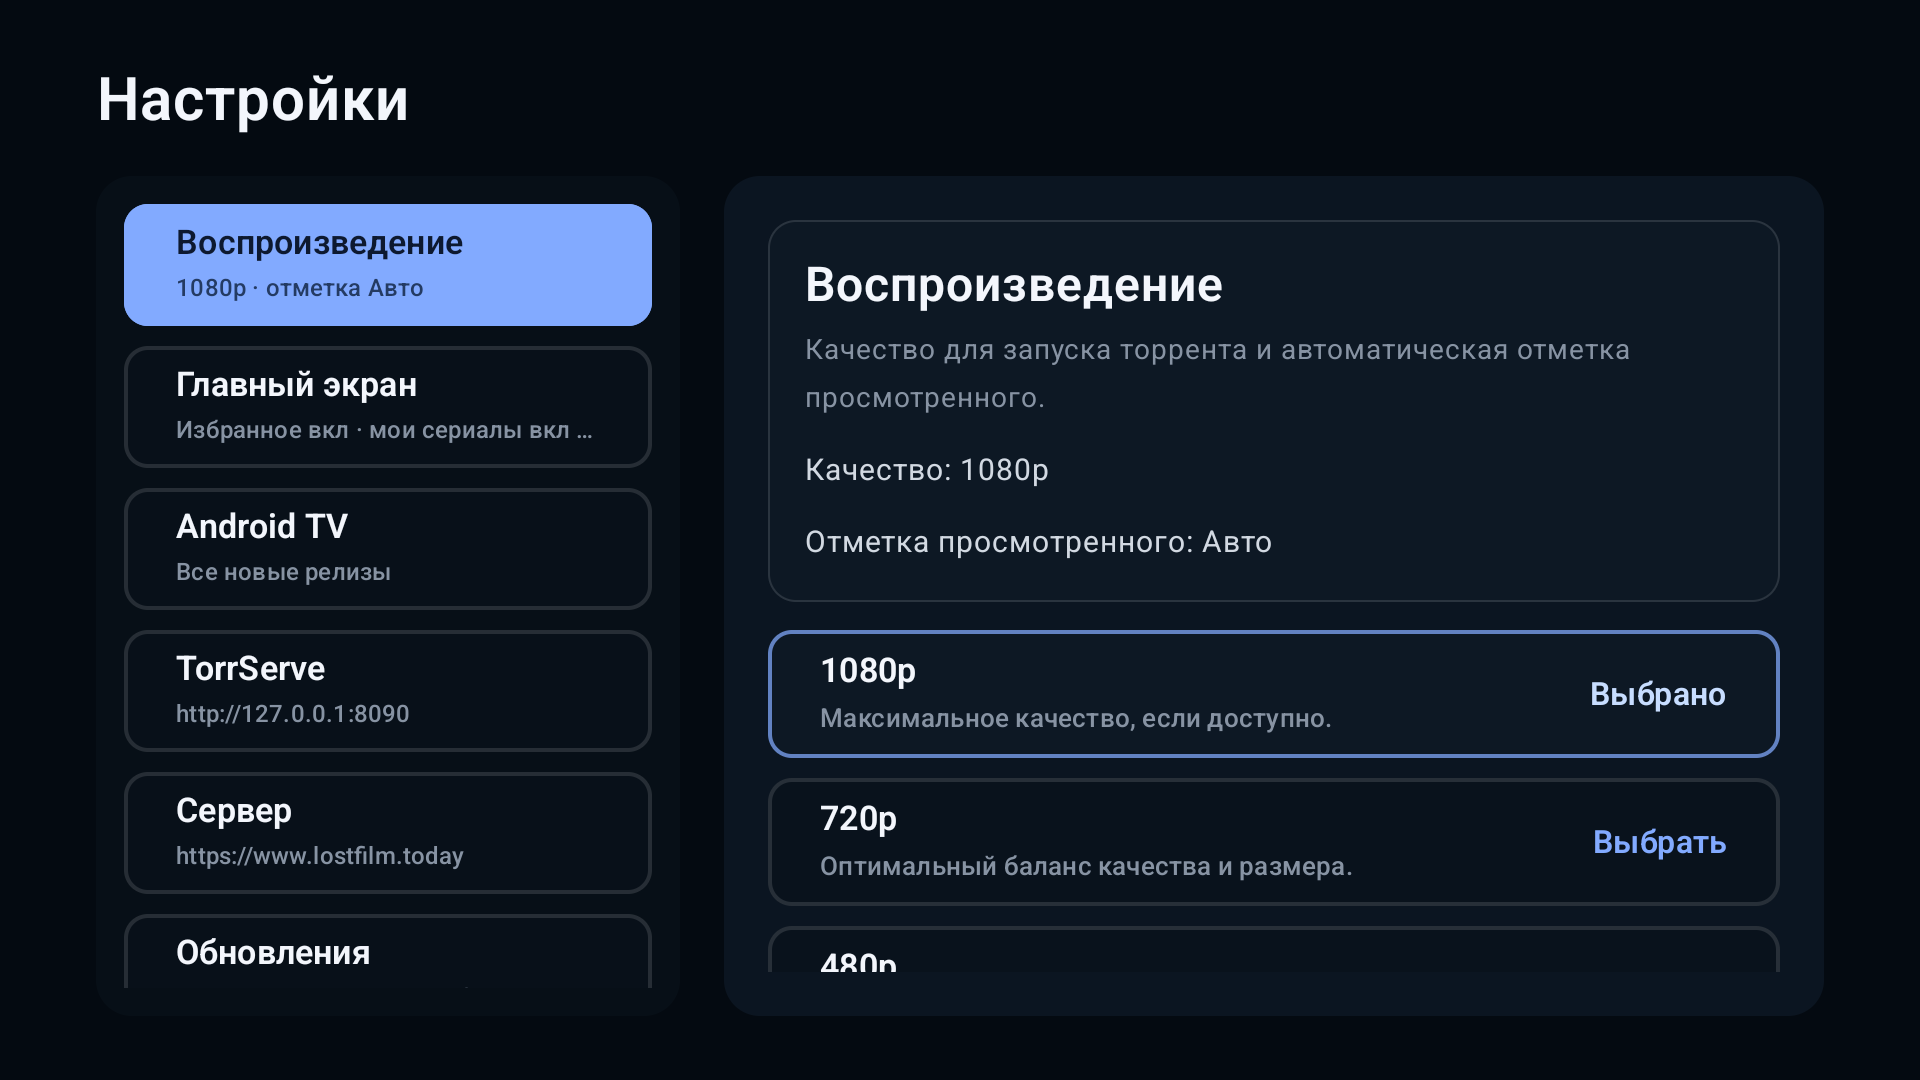
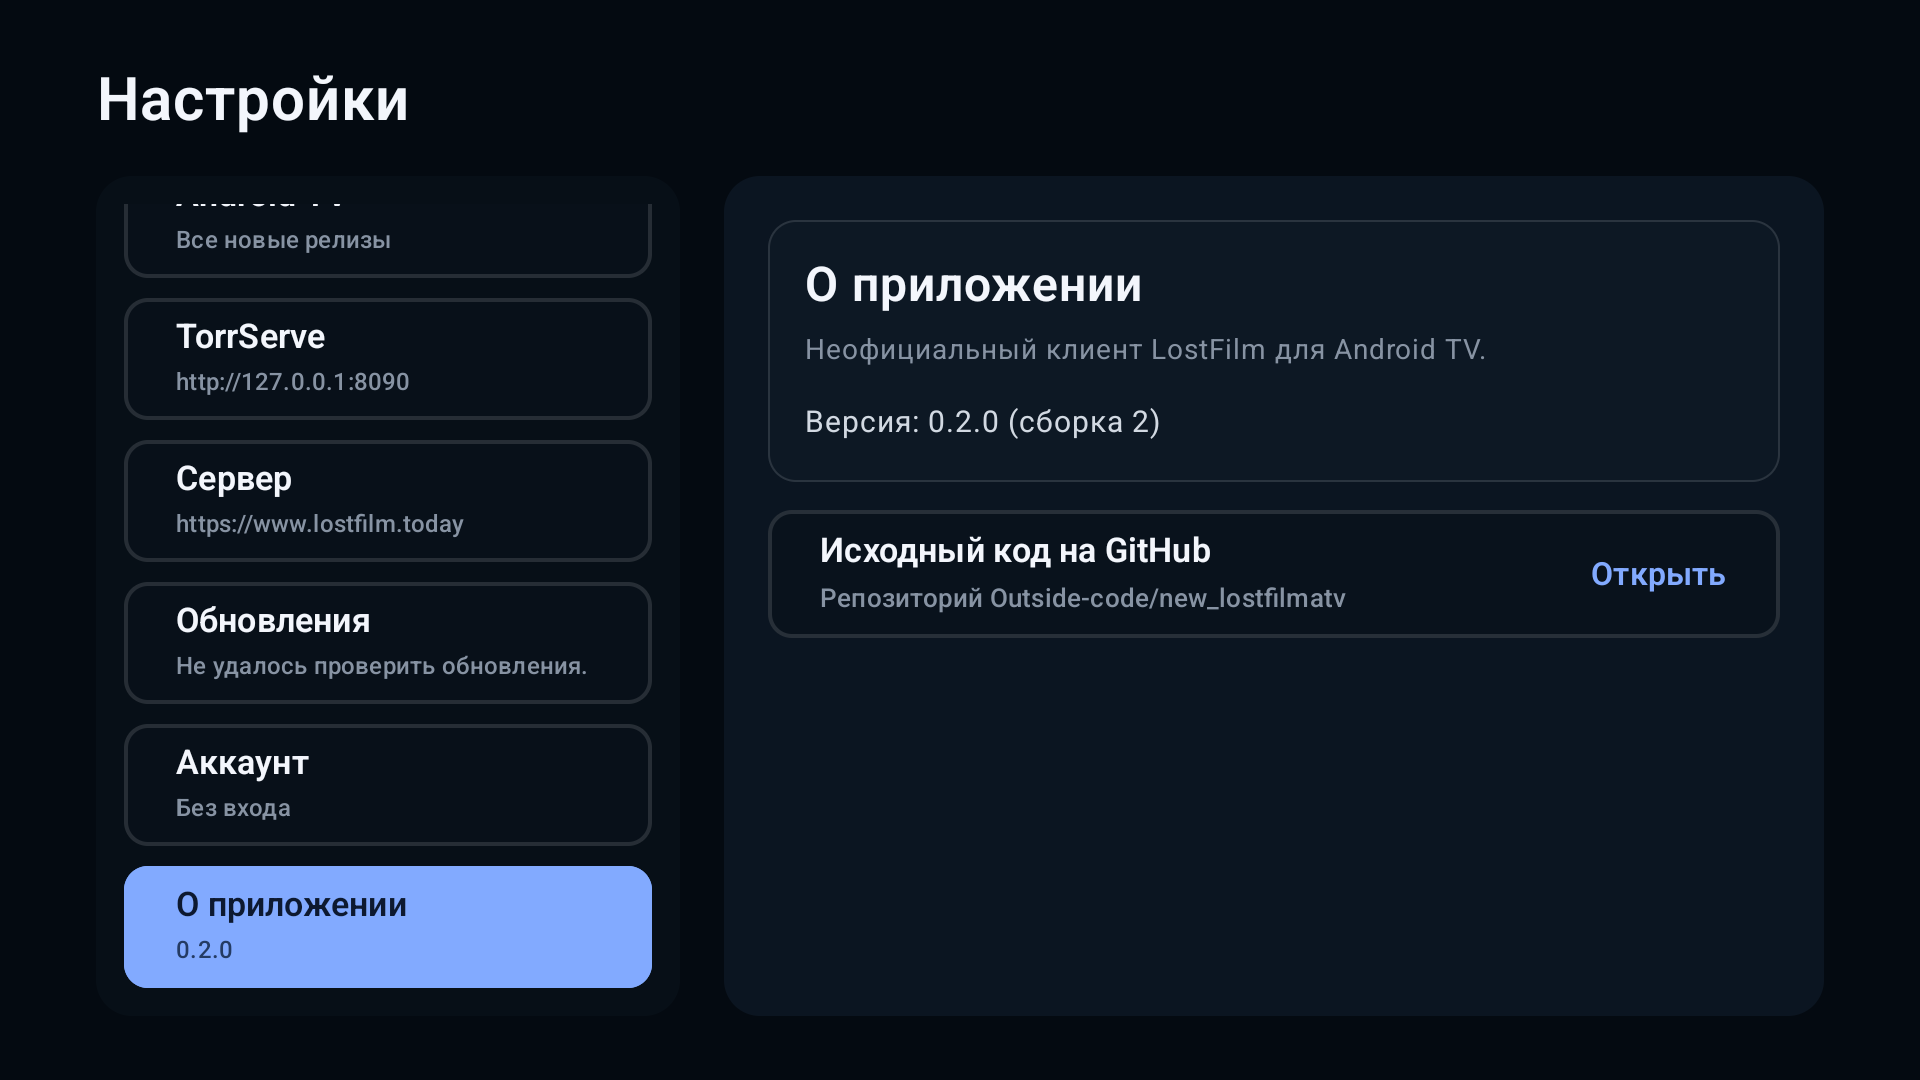
Remove Telegram link and menu collapse button; preserve remote focus navigation

diff --git a/app/src/main/java/com/kraat/lostfilmnewtv/ui/home/HomeHeader.kt b/app/src/main/java/com/kraat/lostfilmnewtv/ui/home/HomeHeader.kt
@@ -94,11 +94,8 @@ fun HomeHeader(
     scheduleFocusRequester: FocusRequester,
     updateFocusRequester: FocusRequester,
     settingsFocusRequester: FocusRequester,
-    menuLabelsFocusRequester: FocusRequester,
     downTarget: FocusRequester?,
     showLabels: Boolean,
-    menuLabelsEnabled: Boolean = showLabels,
-    onHomeMenuLabelsVisibilitySelected: (Boolean) -> Unit,
     isVisualFocusEnabled: Boolean = true,
     modifier: Modifier = Modifier,
 ) {
@@ -174,7 +171,7 @@ fun HomeHeader(
                     leftEdgeRequester = null,
                     rightEdgeRequester = downTarget,
                     nextDownRequester = scheduleFocusRequester,
-                    upEdgeRequester = menuLabelsFocusRequester,
+                    upEdgeRequester = settingsFocusRequester,
                     onModeClick = { mode ->
                         onHeaderInteraction()
                         onNavItemSelected(NavItem.HOME)
@@ -300,37 +297,12 @@ fun HomeHeader(
                     .focusRequester(settingsFocusRequester)
                     .focusProperties {
                         up = if (hasUpdate) updateFocusRequester else searchFocusRequester
-                        down = menuLabelsFocusRequester
-                        left = FocusRequester.Cancel
-                        right = downTarget ?: FocusRequester.Default
-                    },
-            )
-            HomeHeaderActionButton(
-                label = if (menuLabelsEnabled) "Скрыть меню" else "Показать меню",
-                subtitle = "",
-                leadingIcon = if (menuLabelsEnabled) HeaderActionIcon.MenuCollapse else HeaderActionIcon.MenuExpand,
-                onClick = {
-                    onHeaderInteraction()
-                    onHomeMenuLabelsVisibilitySelected(!menuLabelsEnabled)
-                },
-                onLongClick = {},
-                onInteraction = onHeaderInteraction,
-                onBackClick = onBackToContent,
-                isVisualFocusEnabled = isVisualFocusEnabled,
-                minWidth = if (showLabels) ExpandedMenuWidth - 36.dp else CollapsedMenuWidth - 20.dp,
-                hideSubtitle = true,
-                showLabel = showLabels,
-                modifier = Modifier
-                    .then(if (showLabels) Modifier.fillMaxWidth() else Modifier.width(CollapsedMenuWidth - 20.dp))
-                    .testTag("home-action-menu-labels")
-                    .focusRequester(menuLabelsFocusRequester)
-                    .focusProperties {
                         down = firstModeRequester ?: scheduleFocusRequester
-                        up = settingsFocusRequester
-                        right = downTarget ?: FocusRequester.Default
                         left = FocusRequester.Cancel
+                        right = downTarget ?: FocusRequester.Default
                     },
             )
+
         }
     }
 }
@@ -535,8 +507,6 @@ private enum class HeaderActionIcon {
     Calendar,
     Refresh,
     Settings,
-    MenuCollapse,
-    MenuExpand,
 }
 
 @Composable
@@ -693,8 +663,6 @@ private fun HeaderVectorIcon(icon: HeaderActionIcon, color: Color) {
         HeaderActionIcon.Calendar -> CalendarIcon(color = color)
         HeaderActionIcon.Refresh -> RefreshIcon(color = color)
         HeaderActionIcon.Settings -> SettingsLineIcon(color = color)
-        HeaderActionIcon.MenuCollapse -> MenuVisibilityIcon(color = color, collapsed = false)
-        HeaderActionIcon.MenuExpand -> MenuVisibilityIcon(color = color, collapsed = true)
     }
 }
 
@@ -867,46 +835,7 @@ private fun SearchIcon(color: Color) {
     }
 }
 
-@Composable
-private fun MenuVisibilityIcon(color: Color, collapsed: Boolean) {
-    androidx.compose.foundation.Canvas(modifier = Modifier.size(24.dp)) {
-        val stroke = androidx.compose.ui.graphics.drawscope.Stroke(
-            width = 2.0f,
-            cap = androidx.compose.ui.graphics.StrokeCap.Round,
-            join = androidx.compose.ui.graphics.StrokeJoin.Round,
-        )
-        drawRoundRect(
-            color = color,
-            topLeft = Offset(size.width * 0.16f, size.height * 0.20f),
-            size = androidx.compose.ui.geometry.Size(size.width * 0.68f, size.height * 0.60f),
-            cornerRadius = androidx.compose.ui.geometry.CornerRadius(3f, 3f),
-            style = stroke,
-        )
-        drawLine(
-            color = color,
-            start = Offset(size.width * 0.36f, size.height * 0.20f),
-            end = Offset(size.width * 0.36f, size.height * 0.80f),
-            strokeWidth = 2.0f,
-            cap = androidx.compose.ui.graphics.StrokeCap.Round,
-        )
-        val arrowX = if (collapsed) size.width * 0.64f else size.width * 0.54f
-        val direction = if (collapsed) 1f else -1f
-        drawLine(
-            color = color,
-            start = Offset(arrowX - direction * size.width * 0.08f, size.height * 0.40f),
-            end = Offset(arrowX + direction * size.width * 0.04f, size.height * 0.50f),
-            strokeWidth = 2.0f,
-            cap = androidx.compose.ui.graphics.StrokeCap.Round,
-        )
-        drawLine(
-            color = color,
-            start = Offset(arrowX - direction * size.width * 0.08f, size.height * 0.60f),
-            end = Offset(arrowX + direction * size.width * 0.04f, size.height * 0.50f),
-            strokeWidth = 2.0f,
-            cap = androidx.compose.ui.graphics.StrokeCap.Round,
-        )
-    }
-}
+
 
 @Composable
 private fun CalendarIcon(color: Color) {

diff --git a/app/src/main/java/com/kraat/lostfilmnewtv/ui/settings/SettingsScreen.kt b/app/src/main/java/com/kraat/lostfilmnewtv/ui/settings/SettingsScreen.kt
@@ -134,7 +134,6 @@ fun SettingsScreen(
             put(SettingsFocusTarget.InstallUpdate.toTag(), FocusRequester())
             put(SettingsFocusTarget.AccountAuth.toTag(), FocusRequester())
             put(SettingsFocusTarget.AboutGitHubLink.toTag(), FocusRequester())
-            put(SettingsFocusTarget.AboutTelegramLink.toTag(), FocusRequester())
         }
     }
     var contentHasFocus by remember { mutableStateOf(false) }
@@ -715,7 +714,6 @@ fun SettingsScreen(
                                 }
                                 Column(modifier = Modifier.focusGroup(), verticalArrangement = Arrangement.spacedBy(10.dp)) {
                                     val gitHubTag = SettingsFocusTarget.AboutGitHubLink.toTag()
-                                    val telegramTag = SettingsFocusTarget.AboutTelegramLink.toTag()
                                     SettingsRowButton(
                                         title = "Исходный код на GitHub",
                                         description = "Репозиторий Outside-code/new_lostfilmatv",
@@ -738,34 +736,10 @@ fun SettingsScreen(
                                             .focusProperties {
                                                 left = railRequesters.getValue(SettingsSection.ABOUT)
                                                 up = railRequesters.getValue(SettingsSection.ABOUT)
-                                                down = contentRequesters.getValue(telegramTag)
+                                                down = FocusRequester.Cancel
                                             },
                                     )
-                                    SettingsRowButton(
-                                        title = "Telegram-канал",
-                                        description = "t.me/lostfilmatv_new",
-                                        value = "Открыть",
-                                        onClick = {
-                                            context.startActivity(
-                                                Intent(Intent.ACTION_VIEW, Uri.parse("https://t.me/lostfilmatv_new")).apply {
-                                                    addFlags(Intent.FLAG_ACTIVITY_NEW_TASK)
-                                                },
-                                            )
-                                        },
-                                        tag = telegramTag,
-                                        onFocused = {
-                                            rememberedActionBySection = rememberedActionBySection + (
-                                                SettingsSection.ABOUT.name to SettingsFocusTarget.AboutTelegramLink
-                                            )
-                                        },
-                                        modifier = Modifier
-                                            .focusRequester(contentRequesters.getValue(telegramTag))
-                                            .focusProperties {
-                                                left = railRequesters.getValue(SettingsSection.ABOUT)
-                                                up = contentRequesters.getValue(gitHubTag)
-                                                down = FocusRequester.Default
-                                            },
-                                    )
+
                                 }
                             }
                         }

diff --git a/app/src/main/java/com/kraat/lostfilmnewtv/ui/home/HomeScreen.kt b/app/src/main/java/com/kraat/lostfilmnewtv/ui/home/HomeScreen.kt
@@ -86,7 +86,6 @@ fun HomeScreen(
     onScheduleClick: () -> Unit = {},
     onSettingsClick: () -> Unit = {},
     onUpdateClick: () -> Unit = {},
-    onHomeMenuLabelsVisibilitySelected: (Boolean) -> Unit = {},
     onAuthClick: () -> Unit = {},
     onRetry: () -> Unit = {},
     onPagingRetry: () -> Unit = {},
@@ -168,7 +167,6 @@ fun HomeScreen(
     val scheduleRequester = remember { FocusRequester() }
     val settingsRequester = remember { FocusRequester() }
     val updateRequester = remember { FocusRequester() }
-    val menuLabelsRequester = remember { FocusRequester() }
     val loginActionRequester = remember { FocusRequester() }
     val retryActionRequester = remember { FocusRequester() }
     val contentEntryRequester = remember { FocusRequester() }
@@ -306,11 +304,8 @@ fun HomeScreen(
                 scheduleFocusRequester = scheduleRequester,
                 updateFocusRequester = updateRequester,
                 settingsFocusRequester = settingsRequester,
-                menuLabelsFocusRequester = menuLabelsRequester,
                 downTarget = headerDownTarget,
                 showLabels = shouldShowHomeMenuLabels,
-                menuLabelsEnabled = state.isHomeMenuLabelsEnabled,
-                onHomeMenuLabelsVisibilitySelected = onHomeMenuLabelsVisibilitySelected,
                 isVisualFocusEnabled = !isSwitchingModeFromRail,
                 modifier = Modifier
                     .width(if (shouldShowHomeMenuLabels) 204.dp else 68.dp)

diff --git a/app/src/main/java/com/kraat/lostfilmnewtv/ui/settings/SettingsFocusTarget.kt b/app/src/main/java/com/kraat/lostfilmnewtv/ui/settings/SettingsFocusTarget.kt
@@ -27,7 +27,6 @@ sealed class SettingsFocusTarget {
     data object WatchedMarkingToggle : SettingsFocusTarget()
     data object AccountAuth : SettingsFocusTarget()
     data object AboutGitHubLink : SettingsFocusTarget()
-    data object AboutTelegramLink : SettingsFocusTarget()
 }
 
 fun SettingsFocusTarget.toTag(): String = when (this) {
@@ -62,5 +61,4 @@ fun SettingsFocusTarget.toTag(): String = when (this) {
     SettingsFocusTarget.WatchedMarkingToggle -> "settings-watched-marking-toggle"
     SettingsFocusTarget.AccountAuth -> "settings-account-auth-action"
     SettingsFocusTarget.AboutGitHubLink -> "settings-about-github-link"
-    SettingsFocusTarget.AboutTelegramLink -> "settings-about-telegram-link"
 }

diff --git a/app/src/test/java/com/kraat/lostfilmnewtv/ui/home/HomeScreenTest.kt b/app/src/test/java/com/kraat/lostfilmnewtv/ui/home/HomeScreenTest.kt
@@ -422,7 +422,7 @@ class HomeScreenTest {
 
     @Test
     @OptIn(ExperimentalTestApi::class)
-    fun homeScreen_settingsAction_downMovesFocusToMenuLabelsAction() {
+    fun homeScreen_settingsAction_downWrapsToFirstMode() {
         composeRule.setContent {
             LostFilmTheme {
                 HomeScreen(state = seededState())
@@ -437,7 +437,7 @@ class HomeScreenTest {
             .performKeyInput { pressKey(Key.DirectionDown) }
         composeRule.waitForIdle()
 
-        composeRule.onNodeWithTag("home-action-menu-labels").assertIsFocused()
+        composeRule.onNodeWithTag("home-mode-toggle").assertIsFocused()
     }
 
     @Test

diff --git a/app/src/main/java/com/kraat/lostfilmnewtv/navigation/AppNavGraph.kt b/app/src/main/java/com/kraat/lostfilmnewtv/navigation/AppNavGraph.kt
@@ -149,7 +149,6 @@ fun AppNavGraph(initialDetailsUrl: String? = null) {
                 onSearchClick = { navController.navigate(AppDestination.Search.route) },
                 onScheduleClick = { navController.navigate(AppDestination.Schedule.route) },
                 onSettingsClick = { navController.navigate(AppDestination.Settings.createRoute()) },
-                onHomeMenuLabelsVisibilitySelected = homeViewModel::onHomeMenuLabelsVisibilityChanged,
                 onUpdateClick = {
                     val apkUrl = savedAppUpdate?.apkUrl
                     if (!apkUrl.isNullOrBlank() && updateInstallJob?.isActive != true) {
